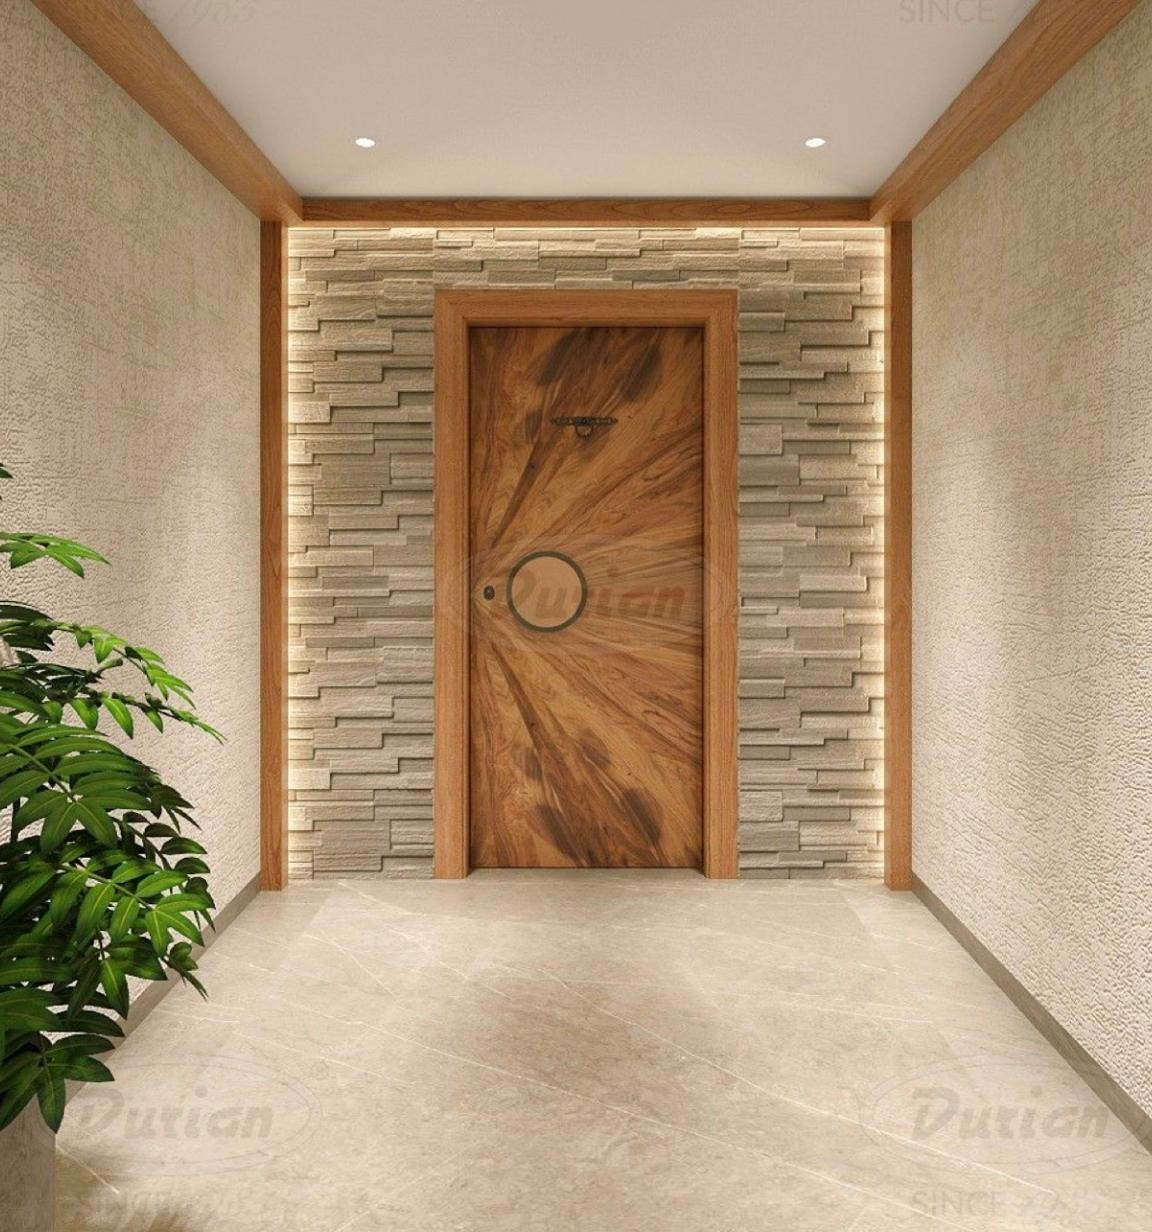
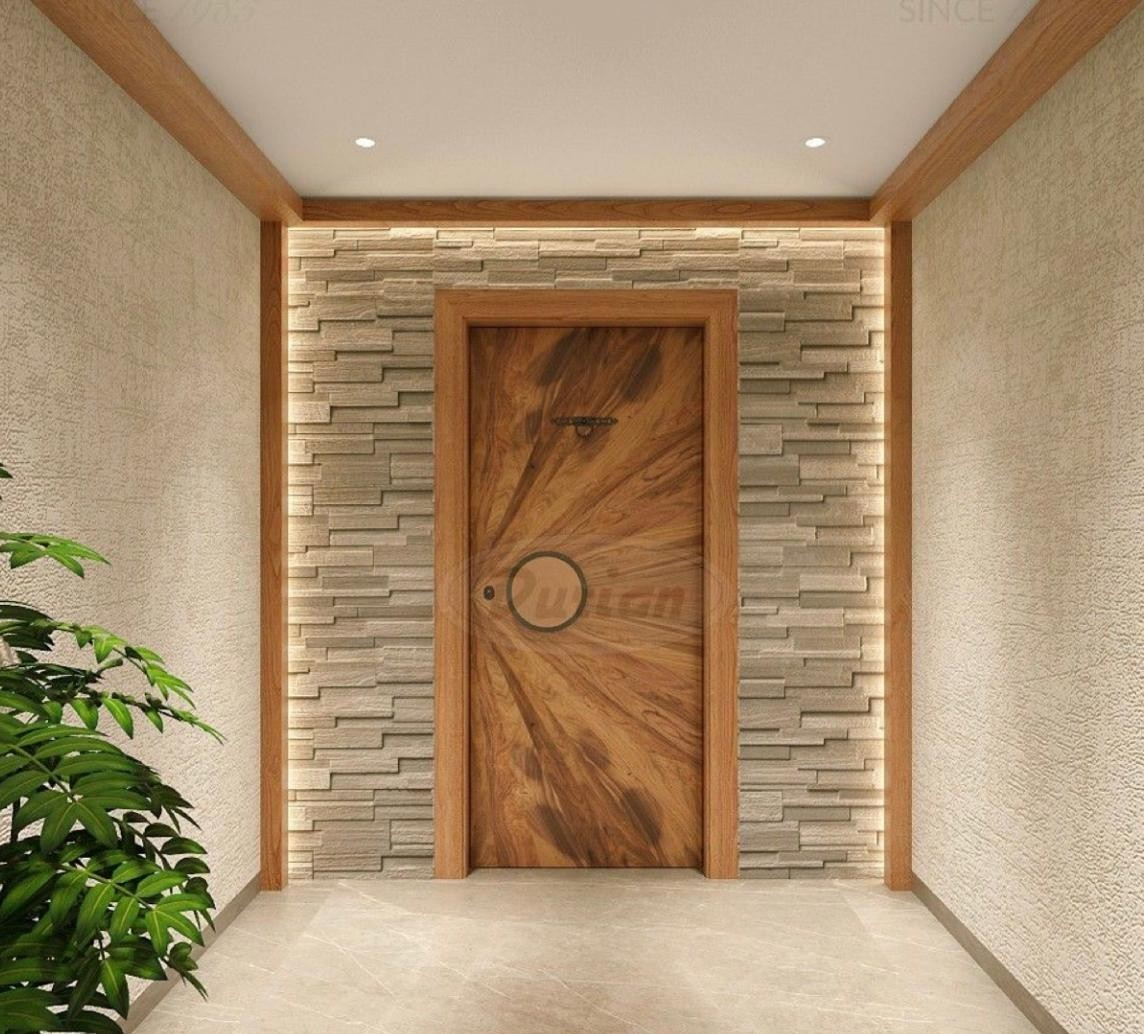
updated

diff --git a/src/pages/Index.tsx b/src/pages/Index.tsx
@@ -1,173 +1,3 @@
-// import { useEffect, useState } from "react";
-// import { Link } from "react-router-dom";
-// import { ArrowRight, MapPin, Star } from "lucide-react";
-// import heroBg from "@/assets/hero-bg.png";
-// import SectionHeading from "@/components/SectionHeading";
-// import { useScrollReveal } from "@/hooks/useScrollReveal";
-
-// // Import some project images for the home preview
-// import p1 from "@/assets/images/projects/project-1.jpg";
-// import p9 from "@/assets/images/projects/project-9.jpg";
-// import p10 from "@/assets/images/projects/project-10.jpg";
-// import p11 from "@/assets/images/projects/project-11.jpg";
-
-// const heroImages = [p1, p9, p10, p11];
-
-// const specializations = [
-//   { 
-//     title: "Budget Friendly Home Interiors", 
-//     desc: "Elegant designs that respect your investment without compromising on quality or aesthetics.", 
-//     icon: "✦" 
-//   },
-//   { 
-//     title: "Premium Interiors", 
-//     desc: "Curated materials and bespoke craftsmanship for discerning homeowners seeking elevated living.", 
-//     icon: "★" 
-//   },
-//   { 
-//     title: "Luxury Interiors", 
-//     desc: "The pinnacle of residential design — rare materials, master artisans, and timeless elegance.", 
-//     icon: "✵" 
-//   },
-//   { 
-//     title: "Turn Key Projects", 
-//     desc: "Complete end-to-end interior solutions — from concept to handover, we manage everything.", 
-//     icon: "◆" 
-//   },
-//   { 
-//     title: "Commercial Interiors", 
-//     desc: "Sophisticated commercial spaces that reflect your brand identity and inspire productivity.", 
-//     icon: "▣" 
-//   },
-// ];
-
-// const locations = ["Hyderabad", "Vijayawada", "Vizag"];
-
-// const Index = () => {
-//   const [heroLoaded, setHeroLoaded] = useState(false);
-//   const specs = useScrollReveal();
-//   const preview = useScrollReveal();
-
-//   useEffect(() => {
-//     const t = setTimeout(() => setHeroLoaded(true), 100);
-//     return () => clearTimeout(t);
-//   }, []);
-
-//   return (
-//     <main>
-//       {/* Hero Section */}
-//       <section className="relative h-screen flex items-center justify-center overflow-hidden">
-//         <img
-//           src={heroBg}
-//           alt="Luxury interior living space"
-//           className="absolute inset-0 w-full h-full object-cover"
-//           onLoad={() => setHeroLoaded(true)}
-//         />
-//         <div className="absolute inset-0 luxe-overlay" />
-        
-//         <div className="relative z-10 text-center px-6 flex flex-col items-center">
-//           <div
-//             className={`w-16 h-px bg-luxe-cream/50 mb-8 transition-all duration-1000 delay-300 ${
-//               heroLoaded ? "opacity-100 w-16" : "opacity-0 w-0"
-//             }`}
-//           />
-          
-//           <Link
-//             to="/contact"
-//             className={`luxe-btn-primary inline-flex items-center transition-all duration-1000 delay-500 ${
-//               heroLoaded ? "opacity-100 translate-y-0" : "opacity-0 translate-y-6"
-//             }`}
-//           >
-//             Get a free Quote
-//             <ArrowRight size={16} className="ml-2" />
-//           </Link>
-//         </div>
-//       </section>
-
-//       {/* Specializations Section */}
-//       <section className="luxe-section bg-luxe-cream">
-//         <div className="container mx-auto">
-//           <SectionHeading
-//             title="Our Specialization"
-//             subtitle="Crafting spaces that resonate with your lifestyle — across every budget and vision."
-//           />
-          
-//           {/* Grid Layout for all 5 Specializations */}
-//           <div
-//             ref={specs.ref}
-//             className="grid grid-cols-1 md:grid-cols-3 gap-8 mb-16"
-//           >
-//             {specializations.map((s, i) => (
-//               <div
-//                 key={s.title}
-//                 className={`luxe-card p-10 text-center transition-all duration-700 ${
-//                   specs.isVisible ? "opacity-100 translate-y-0" : "opacity-0 translate-y-8"
-//                 } ${i >= 3 ? "md:col-span-1 md:translate-x-[50%]" : ""}`} // Centers the bottom row on desktop
-//                 style={{ transitionDelay: `${i * 120}ms` }}
-//               >
-//                 <span className="text-3xl text-primary mb-4 block">{s.icon}</span>
-//                 <h3 className="font-heading text-xl md:text-2xl mb-4 text-foreground" style={{ lineHeight: "1.2" }}>
-//                   {s.title}
-//                 </h3>
-//                 <p className="font-body text-sm text-muted-foreground leading-relaxed">{s.desc}</p>
-//               </div>
-//             ))}
-//           </div>
-
-//           {/* Locations */}
-//           <div className="flex flex-wrap justify-center gap-6">
-//             {locations.map((loc) => (
-//               <span
-//                 key={loc}
-//                 className="flex items-center gap-2 font-body text-sm tracking-wider text-muted-foreground"
-//               >
-//                 <MapPin size={14} className="text-primary" />
-//                 {loc}
-//               </span>
-//             ))}
-//           </div>
-//         </div>
-//       </section>
-
-//       {/* Projects Preview */}
-//       <section className="luxe-section bg-luxe-cream border-t border-border/50">
-//         <div className="container mx-auto">
-//           <SectionHeading title="Featured Projects" subtitle="A glimpse into the spaces we've transformed" />
-//           <div ref={preview.ref} className="grid grid-cols-2 md:grid-cols-4 gap-4">
-//             {heroImages.map((img, i) => (
-//               <div
-//                 key={i}
-//                 className={`gallery-item aspect-[3/4] transition-all duration-700 ${
-//                   preview.isVisible ? "opacity-100 translate-y-0" : "opacity-0 translate-y-8"
-//                 }`}
-//                 style={{ transitionDelay: `${i * 100}ms` }}
-//               >
-//                 <img src={img} alt={`Interior project ${i + 1}`} loading="lazy" />
-//               </div>
-//             ))}
-//           </div>
-//           <div className="text-center mt-12">
-//             <Link to="/gallery" className="luxe-btn-primary">
-//               View All Projects
-//               <ArrowRight size={16} className="ml-2" />
-//             </Link>
-//           </div>
-//         </div>
-//       </section>
-//     </main>
-//   );
-// };
-
-// export default Index;
-
-
-
-
-
-
-
-
-
 import { useEffect, useState } from "react";
 import { Link } from "react-router-dom";
 import { ArrowRight, MapPin, ShieldCheck, Clock, Box } from "lucide-react";
@@ -236,38 +66,15 @@ const Index = () => {
         <div className="absolute inset-0 luxe-overlay" />
         
         <div className="relative z-10 text-center px-6 flex flex-col items-center max-w-5xl">
-          {/* Line removed from here */}
-          
           <Link
             to="/contact"
-            className={`luxe-btn-primary inline-flex items-center mt-24 mb-10 transition-all duration-1000 delay-500 ${
+            className={`luxe-btn-primary inline-flex items-center mt-24 transition-all duration-1000 delay-500 ${
               heroLoaded ? "opacity-100 translate-y-0" : "opacity-0 translate-y-6"
             }`}
           >
             Get a free Quote
             <ArrowRight size={16} className="ml-2" />
           </Link>
-
-          {/* Feature Badges Under the Button */}
-          <div 
-            className={`flex flex-wrap justify-center gap-4 md:gap-6 transition-all duration-1000 delay-700 ${
-              heroLoaded ? "opacity-100 translate-y-0" : "opacity-0 translate-y-6"
-            }`}
-          >
-            {[
-              { icon: <Clock size={16} />, text: "45 Days Move-in" },
-              { icon: <ShieldCheck size={16} />, text: "10 Years Warranty" },
-              { icon: <Box size={16} />, text: "Free 3D Preview" }
-            ].map((badge, idx) => (
-              <div 
-                key={idx} 
-                className="flex items-center gap-2 px-4 py-2 rounded-full border border-luxe-cream/10 bg-black/20 backdrop-blur-sm text-luxe-cream text-[10px] md:text-[11px] font-body tracking-[0.2em] uppercase shadow-xl"
-              >
-                <span className="text-primary">{badge.icon}</span>
-                {badge.text}
-              </div>
-            ))}
-          </div>
         </div>
       </section>
 
@@ -278,6 +85,23 @@ const Index = () => {
             title="Our Specialization"
             subtitle="Crafting spaces that resonate with your lifestyle — across every budget and vision."
           />
+
+          {/* Feature Badges - Filled Solid primary color */}
+          <div className="flex flex-wrap justify-center gap-4 md:gap-6 mb-16">
+            {[
+              { icon: <Clock size={16} />, text: "45 Days Move-in" },
+              { icon: <ShieldCheck size={16} />, text: "10 Years Warranty" },
+              { icon: <Box size={16} />, text: "Free 3D Preview" }
+            ].map((badge, idx) => (
+              <div 
+                key={idx} 
+                className="flex items-center gap-2 px-5 py-2.5 rounded-full bg-primary text-white text-[10px] md:text-[11px] font-body tracking-[0.2em] uppercase shadow-lg border border-primary/10"
+              >
+                {badge.icon}
+                {badge.text}
+              </div>
+            ))}
+          </div>
           
           <div
             ref={specs.ref}

diff --git a/src/pages/Services.tsx b/src/pages/Services.tsx
@@ -112,7 +112,7 @@
 //                     onClick={() => openGallery(s.gallery)}
 //                     className="w-fit flex items-center gap-3 bg-primary text-primary-foreground px-6 py-3 rounded-sm text-xs font-bold tracking-[0.2em] uppercase shadow-md hover:bg-primary/90 hover:gap-5 transition-all"
 //                   >
-//                     View More <ArrowRight size={16} />
+//                     Read More <ArrowRight size={16} />
 //                   </button>
 //                 </div>
 //               </div>
@@ -187,7 +187,7 @@
 //               </div>
 //               <span className="text-white/60 text-xs tracking-[0.3em] uppercase">
 //                 {currentIndex + 1} / {activeGallery.length}
-//               </span>
+//               </span >
 //             </div>
 //           </div>
 //         </div>
@@ -257,9 +257,6 @@
 
 
 
-
-
-
 import { useState } from "react";
 import servicesBg from "@/assets/services-bg.jpg";
 import serviceBudget from "@/assets/service-budget.jpg";
@@ -284,7 +281,7 @@ const generateGallery = (count: number, fileNameBase: string) => {
 const services = [
   {
     title: "Budget Friendly Home Interiors",
-    desc: "Premium laminates, customized designs as per your space. Excellence meets economy. We specialize in value-driven design that utilizes smart materials and space-optimized layouts to create beautiful, functional homes without the luxury price tag. Perfect for first-time homeowners seeking style with financial mindfulness.",
+    desc: "2BHK: 2 wardrobes + dressing, 1 tv unit, modular kitchen with no glass door profile, crockery unit with 1 glass door, shoe rack, ceiling plan (light and electrical excluded). 3BHK: Same as 2BHK offers but 3 wardrobes + dressing. Excellence meets economy. We specialize in value-driven design that utilizes smart materials and space-optimized layouts to create beautiful, functional homes without the luxury price tag.",
     image: serviceBudget,
     gallery: generateGallery(7, "budget"),
   },
@@ -296,7 +293,7 @@ const services = [
   },
   {
     title: "Luxury Interiors",
-    desc: "The zenith of interior artistry. We bring together master artisans, exotic materials like rare marbles and veneers, and avant-garde design concepts. These spaces are crafted to be timeless masterpieces of opulence, prestige, and unparalleled elegance.",
+    desc: "Premium laminates, customized designs as per your space. The zenith of interior artistry. We bring together master artisans, exotic materials like rare marbles and veneers, and avant-garde design concepts. These spaces are crafted to be timeless masterpieces of opulence, prestige, and unparalleled elegance.",
     image: serviceLuxury,
     gallery: generateGallery(9, "Luxury"),
   },
@@ -368,7 +365,9 @@ const Services = () => {
                 </div>
                 <div className="flex-1 p-8 md:p-10 flex flex-col justify-center">
                   <h3 className="font-heading text-2xl md:text-3xl mb-4 text-foreground tracking-tight">{s.title}</h3>
-                  <p className="font-body text-base text-muted-foreground leading-relaxed mb-6">{s.desc}</p>
+                  <p className="font-body text-base text-muted-foreground leading-relaxed mb-6">
+                    {s.desc}
+                  </p>
                   
                   <button 
                     onClick={() => openGallery(s.gallery)}